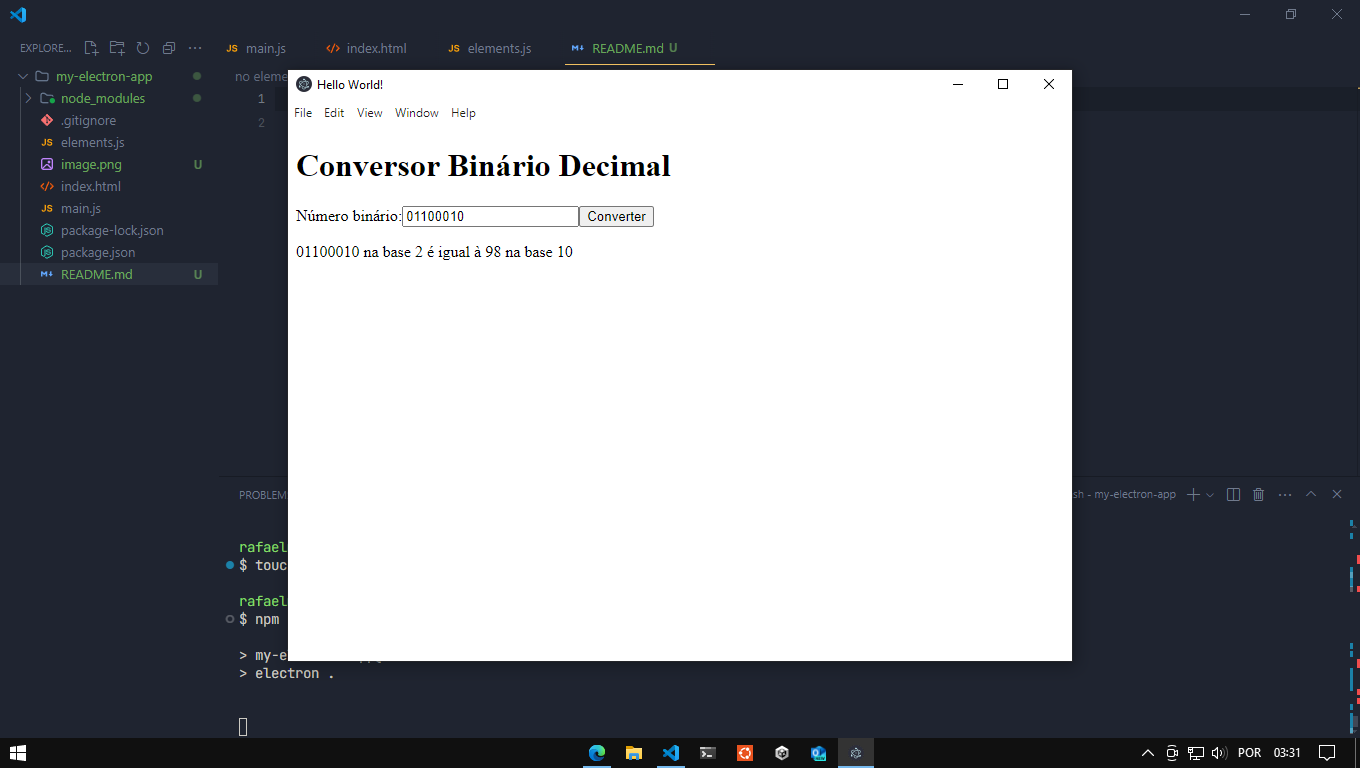
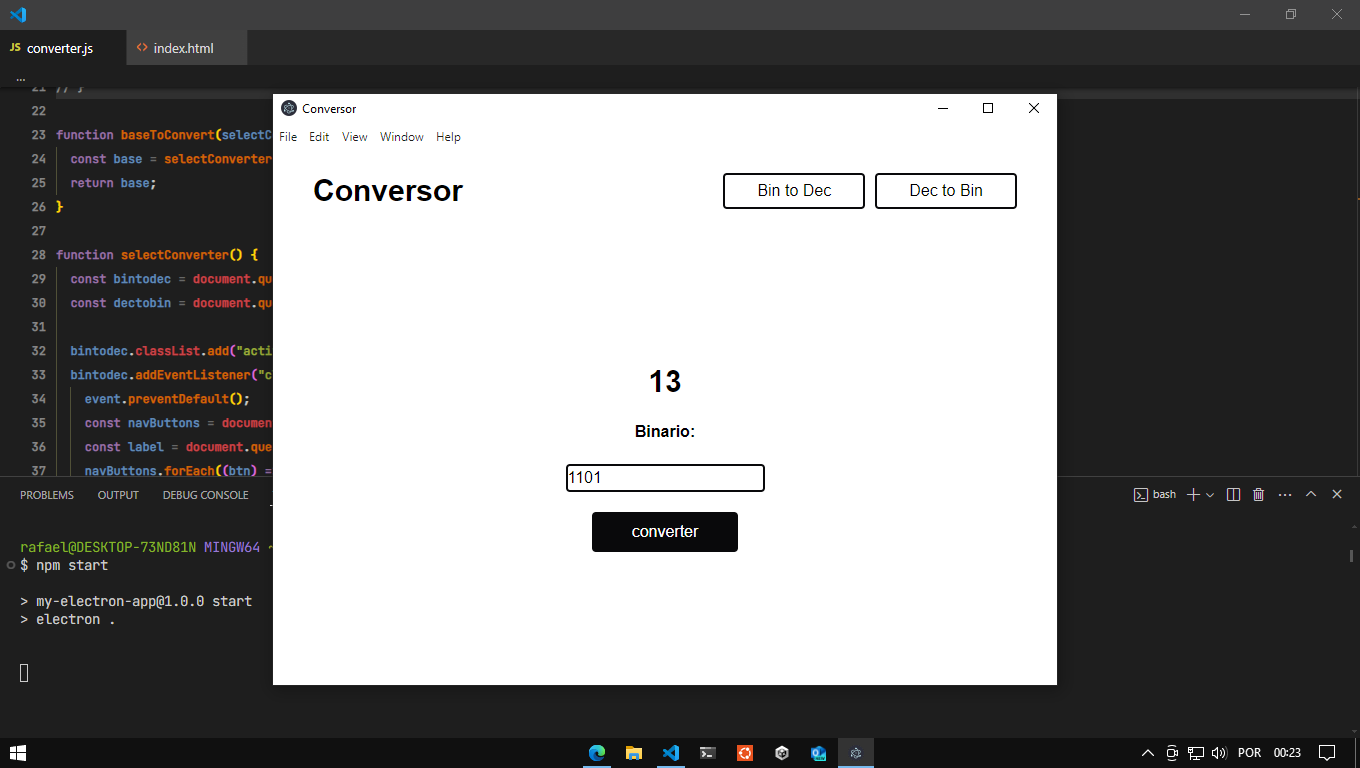
att readme

diff --git a/README.md b/README.md
@@ -7,7 +7,7 @@ No entanto para implementar este estudo resolvi também aprender o báscio de co
 
 Até o seguinte momento esta aplicação apenas converte binário para descimal, mas futuramente quero implementar:
 
-- [ ] Interface interativa
+- [x] Interface interativa
 - [ ] Design Responsivo
 - [ ] Conversor Octal para Descimal
 - [ ] Conversor Hexadecimal para Descimal
